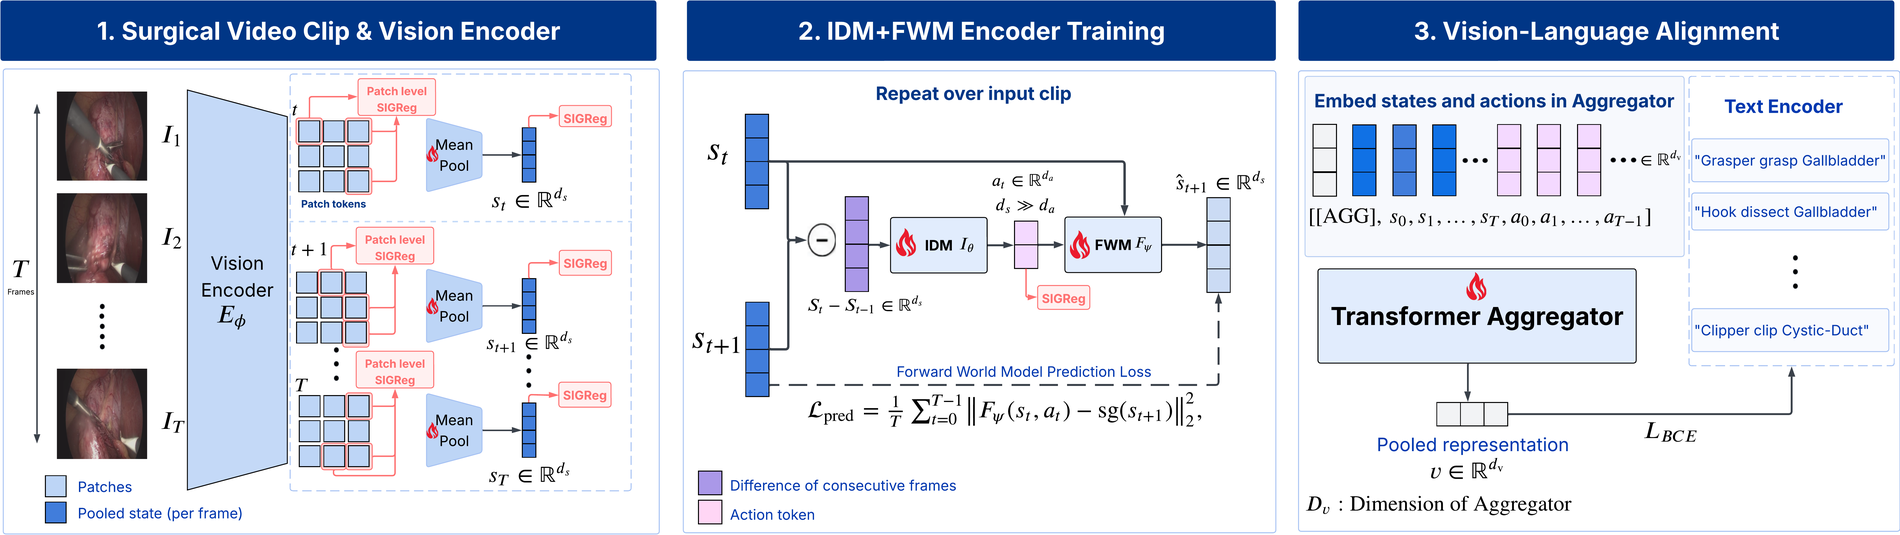
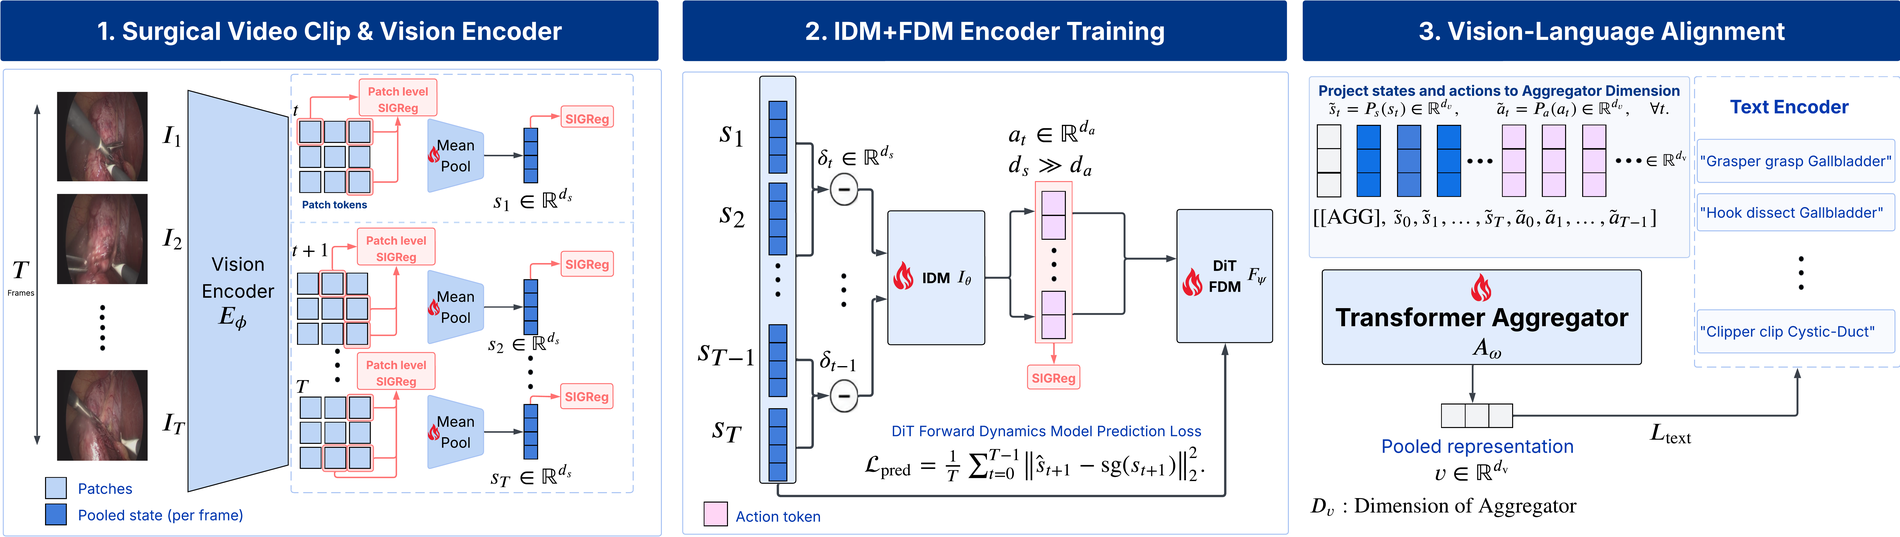
LAViF: use updated pipeline figure (IDM+FDM)

diff --git a/_pages/AI-for-healthcare/lavif.html b/_pages/AI-for-healthcare/lavif.html
@@ -55,8 +55,8 @@ Pretrained encoders often lack spatial coherence, and global vision&ndash;langua
 <h3><span style="color: #8C1D40;"><strong>Method</strong></span></h3>
 
 <figure style="margin: 18px 0 28px;">
-  <img src="{{ site.baseurl }}/images/projects/lavifit/lavifit_pipeline.png" alt="LAViF pipeline: vision encoder, IDM+FWM training, vision-language alignment" loading="lazy" style="width:100%;max-width:960px;display:block;margin:0 auto;border:1px solid #e6e8ee;border-radius:6px;box-shadow:none;" />
-  <figcaption style="text-align:left;font-size:0.88em;color:#666;margin-top:8px;max-width:960px;margin-left:auto;margin-right:auto;">Frames are encoded independently and pooled into per-frame states, with patch-level SIGReg stabilizing local features. A Causal Transition <strong>IDM</strong> compresses consecutive-state differences into an action token that conditions a <strong>forward model</strong>; states and actions are aggregated and aligned to triplet text.</figcaption>
+  <img src="{{ site.baseurl }}/images/projects/lavifit/lavifit_pipeline.png" alt="LAViF pipeline: vision encoder, IDM+FDM training, vision-language alignment" loading="lazy" style="width:100%;max-width:960px;display:block;margin:0 auto;border:1px solid #e6e8ee;border-radius:6px;box-shadow:none;" />
+  <figcaption style="text-align:left;font-size:0.88em;color:#666;margin-top:8px;max-width:960px;margin-left:auto;margin-right:auto;">Frames are encoded independently and pooled into per-frame states, with patch-level SIGReg stabilizing local features. A Causal Transition <strong>IDM</strong> compresses consecutive-state differences into an action token that conditions a DiT <strong>forward dynamics model (FDM)</strong>; states and actions are aggregated and aligned to triplet text.</figcaption>
 </figure>
 
 <hr />
